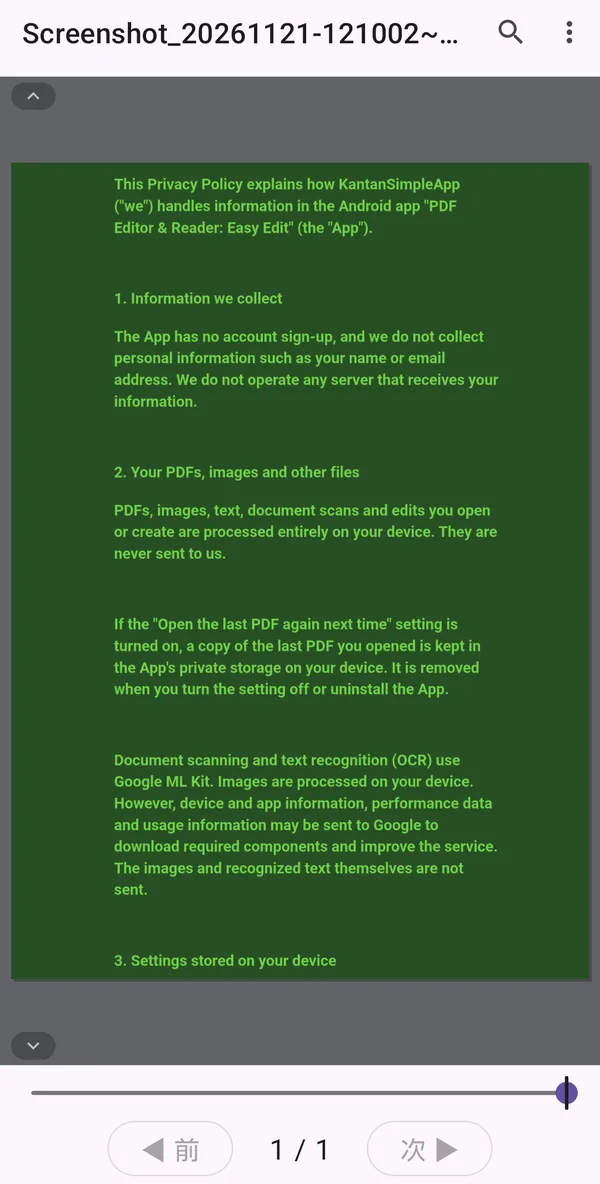
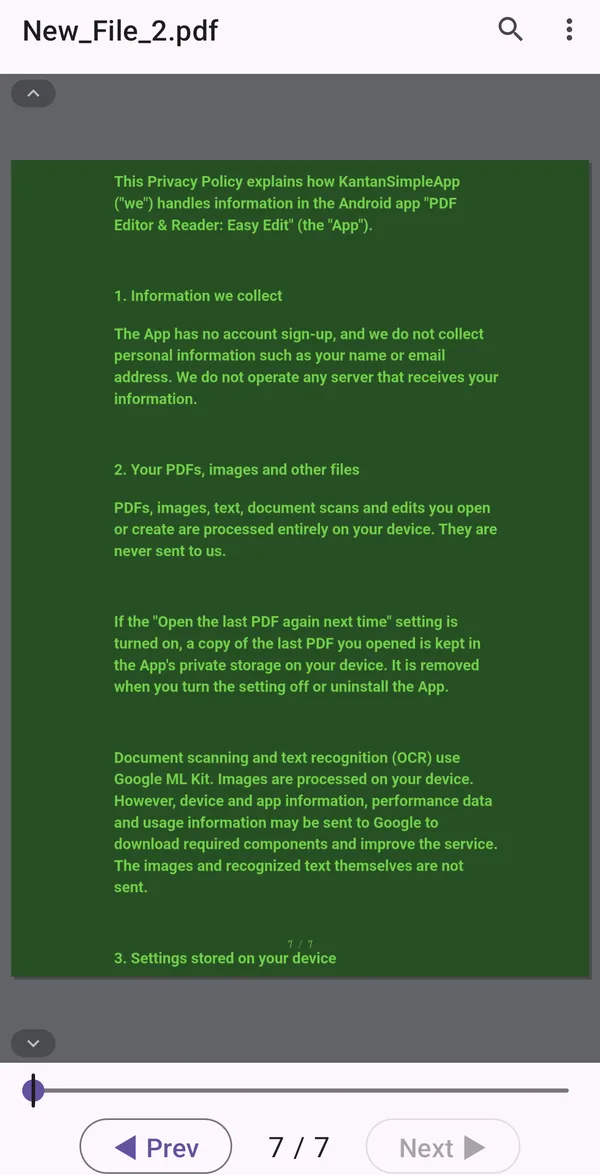
リーダーモードの英語版スクリーンショットを英語UIのものに差し替え
Claude-Session: https://claude.ai/code/session_01PhnCp5LLVUcqBAc9h45oCu

diff --git a/public/en/pdf/index.html b/public/en/pdf/index.html
@@ -188,7 +188,7 @@
         <div class="scene-visual">
           <div class="device-stage single">
             <figure>
-              <div class="device tall"><img src="/images/pdf-en-reader.webp" width="600" height="1184" loading="lazy" alt="Reader mode showing a PDF with a dark green background and light green text, with a slider at the bottom for jumping to a page"></div>
+              <div class="device tall"><img src="/images/pdf-en-reader.webp" width="600" height="1175" loading="lazy" alt="Reader mode showing a PDF with a dark green background and light green text, with a page slider and Prev/Next buttons at the bottom"></div>
             </figure>
           </div>
         </div>
